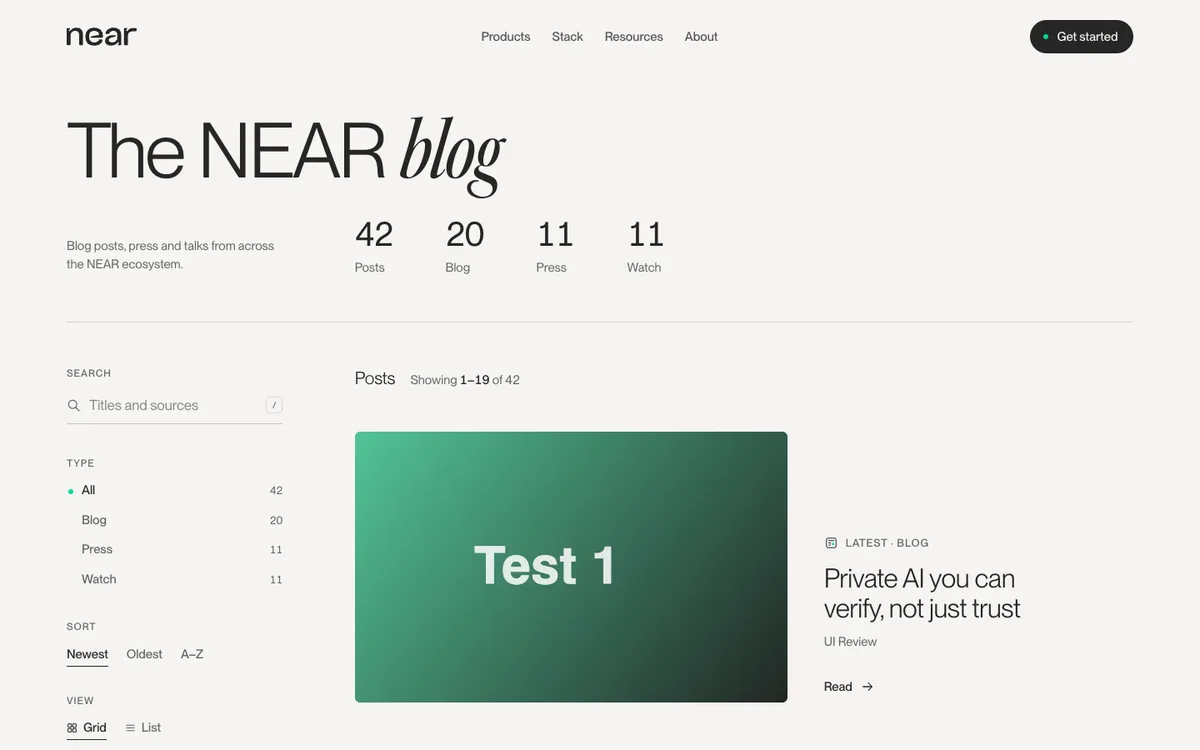
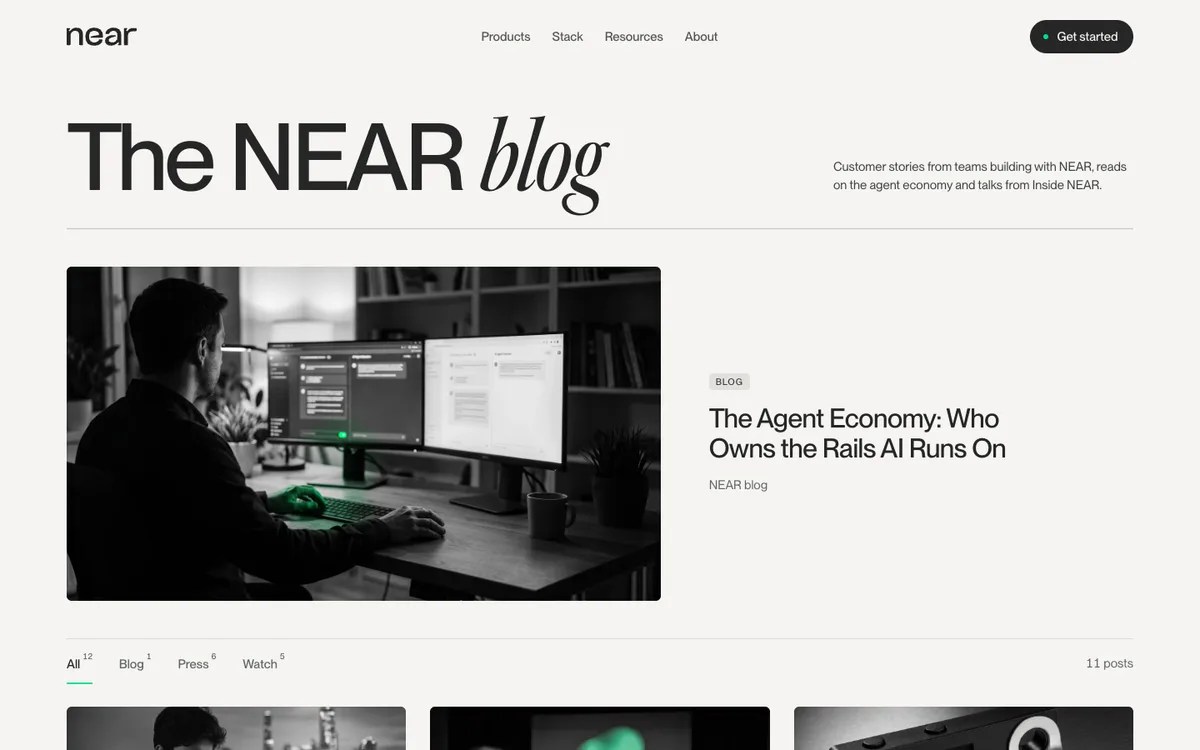
Blog: our tabs-over-a-grid design (E) is now /blog; J moves to /blog-index-a
Go deeper photos stay black-and-white (D221).

diff --git a/src/components/blog/e/blog-e.css b/src/components/blog/e/blog-e.css
@@ -1,0 +1,58 @@
+/* Blog index E, "Tabs over a grid" (BlogE.tsx, D221). Tokens from blog.css's .bl (ink, muted, lines, type scale, margin, header clearance). */
+.be { padding: var(--top) var(--margin) clamp(88px, 13vh, 150px); background: var(--paper-0); color: var(--ink); font-family: var(--sans); }
+:where(.be) :where(button) { font: inherit; color: inherit; background: none; border: 0; padding: 0; cursor: pointer; }
+.be button:focus-visible, .be a:focus-visible { outline: 2px solid var(--emerald-deep); outline-offset: 3px; border-radius: 4px; }
+.be sup { margin-left: 3px; font-size: 0.66em; vertical-align: 0.6em; line-height: 0; font-variant-numeric: tabular-nums; color: var(--muted); }
+
+/* the photo in a 6 px frame, a touch larger on hover */
+.be-pic { display: block; overflow: hidden; border-radius: 6px; background: var(--paper-2); aspect-ratio: 16 / 9; }
+.be-pic img { display: block; width: 100%; height: 100%; object-fit: cover; transition: transform 0.7s var(--ease-settle); }
+@media (hover: hover) { .be a:hover .be-pic img { transform: scale(1.03); } }
+@media (prefers-reduced-motion: reduce) { .be-pic img { transition: none; } }
+
+.be-chip { display: inline-flex; align-self: flex-start; padding: 4px 8px 3px; border-radius: 4px; background: var(--paper-2);
+  font-size: 0.6875rem; font-weight: 500; letter-spacing: 0.08em; text-transform: uppercase; color: var(--graphite); line-height: 1.2; }
+.be-src { font-size: var(--t-small); line-height: var(--t-small-lh); color: var(--muted); }
+.be-n { font-size: var(--t-small); color: var(--muted); font-variant-numeric: tabular-nums; }
+
+/* the head: the heading, its line at the right, a hairline under both */
+.be-head { display: flex; align-items: flex-end; justify-content: space-between; gap: 24px 48px; flex-wrap: wrap;
+  padding-bottom: clamp(24px, 3.5vh, 40px); border-bottom: var(--hair) solid var(--line-strong); }
+.be-h1 { font-weight: 500; font-size: var(--t-display); line-height: var(--t-display-lh); letter-spacing: var(--t-display-tr); }
+.be-aside { max-width: 24em; font-size: var(--t-small); line-height: var(--t-small-lh); color: var(--graphite); padding-bottom: 0.6em; }
+
+/* the lead post: photo left, text right */
+.be-lead { display: grid; grid-template-columns: 7fr 5fr; gap: clamp(24px, 4vw, 72px); align-items: center; padding: clamp(32px, 5vh, 56px) 0; }
+.be-lead__text { display: flex; flex-direction: column; gap: 16px; }
+.be-lead__title { font-size: var(--t-h3); line-height: var(--t-h3-lh); letter-spacing: var(--t-h3-tr); font-weight: 500; max-width: 16em; text-wrap: balance; }
+.be-lead__x { max-width: 30em; font-size: var(--t-body); line-height: var(--t-body-lh); color: var(--graphite); }
+@media (hover: hover) { .be-lead:hover .be-lead__title, .be-card:hover .be-card__title { text-decoration: underline; text-decoration-thickness: 1px; text-underline-offset: 0.18em; } }
+
+/* the tabs: text, the chosen one in ink with a green rule under it */
+.be-bar { display: flex; align-items: center; justify-content: space-between; gap: 12px 24px; flex-wrap: wrap; padding: 4px 0 0;
+  border-top: var(--hair) solid var(--line); margin-bottom: clamp(24px, 3vh, 36px); }
+.be-tabs { display: flex; gap: clamp(16px, 2.2vw, 32px); overflow-x: auto; scrollbar-width: none; }
+.be-tabs::-webkit-scrollbar { display: none; }
+.be-tab { position: relative; flex: none; padding: 14px 0 12px; font-size: var(--t-ui); font-weight: 500; color: var(--muted); transition: color 0.2s var(--ease-tick); }
+.be-tab::after { content: ""; position: absolute; left: 0; right: 0; bottom: 0; height: 2px; background: var(--emerald); transform: scaleX(0); transform-origin: 0 50%; transition: transform 0.35s var(--ease-settle); }
+.be-tab[aria-pressed="true"] { color: var(--ink); }
+.be-tab[aria-pressed="true"]::after { transform: none; }
+@media (hover: hover) { .be-tab:hover { color: var(--ink); } }
+@media (prefers-reduced-motion: reduce) { .be-tab::after { transition: none; } }
+
+/* the grid: three to a row, nine at a time */
+.be-grid { display: grid; grid-template-columns: repeat(3, minmax(0, 1fr)); gap: clamp(36px, 5vh, 56px) clamp(16px, 2vw, 32px); }
+.be-card { display: flex; flex-direction: column; gap: 12px; }
+.be-card .be-pic { margin-bottom: 6px; }
+.be-card__title { font-size: var(--t-h4); line-height: var(--t-h4-lh); letter-spacing: var(--t-h4-tr); font-weight: 500; text-wrap: pretty; }
+.be-more { display: flex; justify-content: center; padding-top: clamp(40px, 6vh, 64px); }
+.be-more__b { padding: 12px 20px; border-radius: 999px; box-shadow: inset 0 0 0 1px var(--line-strong); font-size: var(--t-ui); font-weight: 500; }
+@media (hover: hover) { .be-more__b:hover { box-shadow: inset 0 0 0 1px var(--ink); } }
+
+@media (max-width: 1023px) { .be-grid { grid-template-columns: repeat(2, minmax(0, 1fr)); } .be-lead { grid-template-columns: 1fr 1fr; } }
+@media (max-width: 640px) {
+  .be-grid { grid-template-columns: 1fr; }
+  .be-lead { grid-template-columns: 1fr; gap: 20px; }
+  .be-bar { margin-left: calc(-1 * var(--margin)); margin-right: calc(-1 * var(--margin)); padding-left: var(--margin); padding-right: var(--margin); }
+  .be-bar .be-n { display: none; }
+}

diff --git a/src/components/blog/e/BlogE.tsx b/src/components/blog/e/BlogE.tsx
@@ -1,0 +1,91 @@
+"use client";
+/* eslint-disable @next/next/no-img-element */
+// Blog index E, "Tabs over a grid" (Lawrence's choice, D221; built from the local study D216, after Windsurf's and Assembly's blogs on Mobbin).
+// The heading with a short line at its right over a hairline; one lead post (photo left, text right); then the types as a row of text tabs with
+// their counts over a grid of cards, three to a row, nine at a time with Show more. A tab filters the grid; the lead post stays.
+// Posts: the CMS's live ones first (components/blog/live.ts), each with its own photo, date and excerpt when it has them; then data.ts's Go deeper
+// items, in black and white (/images/blog/<id>.webp, as on the homepage). Labels are /blog's (J's KIND): Blog, Press, Watch.
+import { useState } from "react";
+import type { BlogItem } from "@/components/blog/live";
+import { POSTS, href, isExt, type FilterKey, type Type } from "@/components/v3/blog/data";
+import "./blog-e.css";
+
+const STEP = 9;   // cards shown at first, and added by each Show more
+const NONE: BlogItem[] = [];
+const LABEL: Record<Type, string> = { read: "Blog", story: "Press", watch: "Watch" };
+const TABS: { key: FilterKey; label: string }[] = [{ key: "all", label: "All" }, { key: "read", label: "Blog" }, { key: "story", label: "Press" }, { key: "watch", label: "Watch" }];
+const plural = (n: number) => `${n} ${n === 1 ? "post" : "posts"}`;
+
+/** a CMS post's own photo (null: none); a Go deeper item's black-and-white one */
+const picOf = (p: BlogItem) => (p.pic === undefined ? `/images/blog/${p.id}.webp` : p.pic);
+/** a CMS post's publish date, in UTC so the server and the browser agree */
+const dateOf = (p: BlogItem) => (p.date ? new Date(p.date).toLocaleDateString("en-US", { day: "numeric", month: "short", year: "numeric", timeZone: "UTC" }) : null);
+const linkOf = (p: BlogItem) => { const h = href(p); return isExt(h) ? { href: h, target: "_blank", rel: "noreferrer" } : { href: h }; };
+
+function Pic({ p, className = "", lazy }: { p: BlogItem; className?: string; lazy?: boolean }) {
+  const src = picOf(p);
+  return <span className={`be-pic ${className}`}>{src && <img src={src} alt="" loading={lazy ? "lazy" : undefined} />}</span>;
+}
+
+function Meta({ p }: { p: BlogItem }) {
+  const d = dateOf(p);
+  return <span className="be-src">{p.source}{d && <> · <time dateTime={p.date}>{d}</time></>}</span>;
+}
+
+/** `live`: the CMS's published posts, listed before data.ts's */
+export function BlogE({ live = NONE }: { live?: BlogItem[] }) {
+  const all: BlogItem[] = [...live, ...POSTS];
+  const [tab, setTab] = useState<FilterKey>("all");
+  const [shown, setShown] = useState(STEP);
+  const lead = all[0];
+  const list = all.filter((p) => (tab === "all" ? p !== lead : p.type === tab));
+  const count = (k: FilterKey) => all.filter((p) => k === "all" || p.type === k).length;
+
+  return (
+    <div className="bl be">
+      <header className="be-head">
+        <h1 className="be-h1">The NEAR <span className="accent">blog</span></h1>
+        <p className="be-aside">Customer stories from teams building with NEAR, reads on the agent economy and talks from Inside NEAR.</p>
+      </header>
+
+      {lead && (
+        <a className="be-lead" {...linkOf(lead)}>
+          <Pic p={lead} className="be-lead__pic" />
+          <span className="be-lead__text">
+            <span className="be-chip">{LABEL[lead.type]}</span>
+            <span className="be-lead__title">{lead.title}</span>
+            {lead.excerpt && <span className="be-lead__x">{lead.excerpt}</span>}
+            <Meta p={lead} />
+          </span>
+        </a>
+      )}
+
+      <div className="be-bar">
+        <div className="be-tabs" role="group" aria-label="Show posts by type">
+          {TABS.map((t) => (
+            <button key={t.key} type="button" className="be-tab" aria-pressed={tab === t.key} onClick={() => { setTab(t.key); setShown(STEP); }}>
+              {t.label}<sup>{count(t.key)}</sup>
+            </button>
+          ))}
+        </div>
+        <p className="be-n" aria-live="polite">{plural(list.length)}</p>
+      </div>
+
+      <ul className="be-grid">
+        {list.slice(0, shown).map((p) => (
+          <li key={p.id}>
+            <a className="be-card" {...linkOf(p)}>
+              <Pic p={p} lazy />
+              <span className="be-chip">{LABEL[p.type]}</span>
+              <span className="be-card__title">{p.title}</span>
+              <Meta p={p} />
+            </a>
+          </li>
+        ))}
+      </ul>
+      {list.length > shown && (
+        <div className="be-more"><button type="button" className="be-more__b" onClick={() => setShown((n) => n + STEP)}>Show more <span aria-hidden="true">+</span></button></div>
+      )}
+    </div>
+  );
+}

diff --git a/tests/site/blog-e.test.ts b/tests/site/blog-e.test.ts
@@ -1,0 +1,49 @@
+import { createElement } from 'react'
+import { renderToStaticMarkup } from 'react-dom/server'
+import { describe, expect, it } from 'vitest'
+import { BlogE } from '@/components/blog/e/BlogE'
+import type { BlogItem } from '@/components/blog/live'
+import { POSTS } from '@/components/v3/blog/data'
+
+// The blog index (/blog, version E, D221): the CMS's posts lead, with their own photo, date and excerpt; data.ts's items follow in black and white.
+const cms = (over: Partial<BlogItem>): BlogItem => ({
+  id: 'cms-test-post', type: 'read', title: 'Test post title', source: 'Test author', url: '/blog/test-post', pic: '/cms/test.webp',
+  excerpt: 'Test excerpt.', date: '2026-11-03T12:00:00.000Z', ...over,
+})
+const html = (live: BlogItem[] = []) => renderToStaticMarkup(createElement(BlogE, { live }))
+
+describe('blog index E', () => {
+  it('leads with the newest CMS post: its photo, excerpt and UTC date', () => {
+    const out = html([cms({})])
+    const lead = out.slice(out.indexOf('be-lead'), out.indexOf('be-bar'))
+    expect(lead).toContain('Test post title')
+    expect(lead).toContain('src="/cms/test.webp"')
+    expect(lead).toContain('Test excerpt.')
+    expect(lead).toContain('<time dateTime="2026-11-03T12:00:00.000Z">Nov 3, 2026</time>')
+    expect(lead).toContain('href="/blog/test-post"')
+    expect(lead).not.toContain('target="_blank"')
+  })
+
+  it('gives a CMS post without a photo an empty frame, not a broken image', () => {
+    const out = html([cms({ pic: null })])
+    expect(out).not.toContain('src="null"')
+    expect(out).toContain('<span class="be-pic be-lead__pic"></span>')
+  })
+
+  it("shows data.ts's items in black and white, without dates, external links in a new tab", () => {
+    const out = html()
+    expect(out).toContain(`src="/images/blog/${POSTS[0].id}.webp"`)
+    expect(out).not.toContain('<time')
+    expect(out).toContain('target="_blank"')
+  })
+
+  it('counts every post on the tabs and shows nine cards before Show more', () => {
+    const out = html([cms({}), cms({ id: 'cms-2', type: 'watch' })])
+    const all = POSTS.length + 2
+    expect(out).toContain(`All<sup>${all}</sup>`)
+    expect(out).toContain(`Watch<sup>${POSTS.filter((p) => p.type === 'watch').length + 1}</sup>`)
+    expect(out.match(/class="be-card"/g)).toHaveLength(9)
+    expect(out).toContain(`${all - 1} posts`)
+    expect(out).toContain('Show more')
+  })
+})

diff --git a/src/app/(site)/blog/page.tsx b/src/app/(site)/blog/page.tsx
@@ -2,18 +2,13 @@ import type { Metadata } from "next";
 import { og } from "@/lib/site";
 import { connection } from "next/server";
 import { BlogShell } from "@/components/v3/blog/BlogShell";
-import { BlogJ } from "@/components/v3/blog/j/BlogJ";
-import type { Post } from "@/components/v3/blog/data";
-import { postHref } from "@/lib/blog/article";
-import { getLivePosts } from "@/lib/blog/posts";
+import { BlogE } from "@/components/blog/e/BlogE";
+import { livePosts } from "@/components/blog/live";
 
-// The blog index: direction J (Reading rail, open; components/v3/blog/j), the one chosen. The CMS's live PUBLIC posts come first (typed by their category), each with its
-// own photo and its page (/blog/[slug]); then the Go deeper reads, stories and talks (components/v3/blog/data.ts).
-// Rendered on request (the database is not reachable at build), the read cached by the CMS's tags (lib/blog/posts.ts).
+// The blog index: version E, "Tabs over a grid" (components/blog/e), the one Lawrence chose (D221). Direction J, the previous /blog, is at /blog-index-a.
+// The CMS's live PUBLIC posts come first (typed by their category), each with its own photo and its page (/blog/[slug]); then the Go deeper reads,
+// stories and talks (components/v3/blog/data.ts). Rendered on request (the database is not reachable at build), the read cached by the CMS's tags.
 export const instant = false;
-
-// the CMS category picks the index's type: Press is the stories, Watch the talks, anything else Blog
-const TYPE: Record<string, Post["type"]> = { press: "story", watch: "watch" };
 
 export const metadata: Metadata = {
   title: "Blog",
@@ -24,8 +19,6 @@ export const metadata: Metadata = {
 
 export default async function BlogIndex() {
   await connection();
-  const live: Post[] = (await getLivePosts()).map((p) => ({
-    id: `cms-${p.slug}`, type: TYPE[p.category?.slug ?? ""] ?? "read", title: p.title, source: p.author ?? "NEAR blog", url: postHref(p.slug), pic: p.image?.src ?? null,
-  }));
-  return <BlogShell home="/"><BlogJ live={live} /></BlogShell>;
+  const live = await livePosts();
+  return <BlogShell home="/"><BlogE live={live} /></BlogShell>;
 }

diff --git a/src/app/(site)/blog-index-a/page.tsx b/src/app/(site)/blog-index-a/page.tsx
@@ -1,0 +1,21 @@
+import type { Metadata } from "next";
+import { connection } from "next/server";
+import { BlogShell } from "@/components/v3/blog/BlogShell";
+import { BlogJ } from "@/components/v3/blog/j/BlogJ";
+import { BlogSwitch } from "@/components/blog/BlogSwitch";
+import { livePosts } from "@/components/blog/live";
+
+// The blog index, version A: direction J (Reading rail, open; components/v3/blog/j). It was /blog until Lawrence chose E (D221); kept here as an
+// exploration, listed at /extra. The CMS's live PUBLIC posts come first, then data.ts's. Rendered on request, as /blog is. No canonical: noindex.
+export const instant = false;
+
+export const metadata: Metadata = {
+  title: "Blog",
+  description: "Customer stories, reads and talks from across the NEAR ecosystem.",
+};
+
+export default async function BlogIndexA() {
+  await connection();
+  const live = await livePosts();
+  return <><BlogShell home="/"><BlogJ live={live} /></BlogShell><BlogSwitch on="a" /></>;
+}

diff --git a/src/components/blog/BlogSwitch.tsx b/src/components/blog/BlogSwitch.tsx
@@ -1,12 +1,13 @@
 // The switch between the blog index's versions (top left, under the header): plain links. Same pill as the Solutions and Community switches.
-// A is the live blog (/blog, direction J); B–D are explorations listed at /extra.
+// E is the live blog (/blog, "Tabs over a grid", D221); A (direction J, the previous /blog) and B–D are explorations listed at /extra.
 import "../v4/revenue/switch.css";
 
 export const BLOG_VERSIONS = [
-  { k: "a", href: "/blog", name: "Reading rail (current)" },
+  { k: "a", href: "/blog-index-a", name: "Reading rail" },
   { k: "b", href: "/blog-index-b", name: "Figma: featured + cards" },
   { k: "c", href: "/blog-index-c", name: "Figma on the homepage grid" },
   { k: "d", href: "/blog-index-d", name: "Figma: lead card + type menu" },
+  { k: "e", href: "/blog", name: "Tabs over a grid (current)" },
 ] as const;
 
 export function BlogSwitch({ on }: { on: (typeof BLOG_VERSIONS)[number]["k"] }) {
